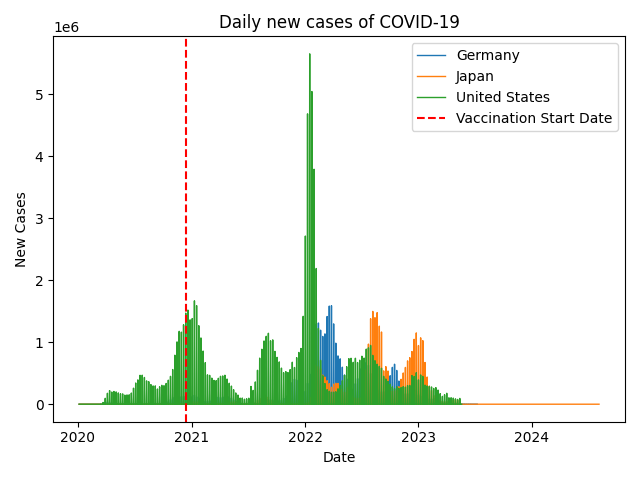
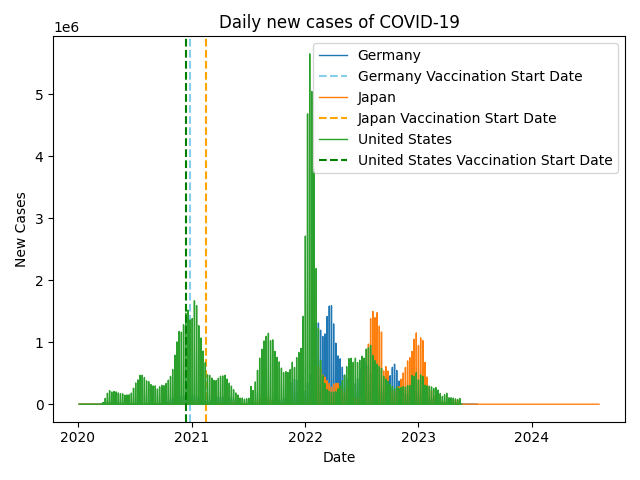
fixed type hints, corrected lines of vaccination start date per country in plots

Changed region(s): [[0.4688, 0.0938, 0.9688, 0.3438], [0.2812, 0.0938, 0.3125, 0.6875], [0.2812, 0.8438, 0.3125, 0.875]]

diff --git a/visualization.py b/visualization.py
@@ -2,16 +2,18 @@ import pandas as pd
 import matplotlib.pyplot as plt
 
 
-def create_plot_daily_new_cases(df: pd.DataFrame):
+def create_plot_daily_new_cases(df: pd.DataFrame) -> None:
     """Create and save a plot (line chart) of daily new COVID-19 cases."""
     plt.figure()
 
-    for country in df["location"].unique():
+    colors = ["skyblue", "orange", "green"]
+
+    for i, country in enumerate(df["location"].unique()):
         country_df = df[df["location"] == country]
         plt.plot(country_df["date"], country_df["new_cases"], label=country, linewidth=1)
 
-    start_date = country_df["vaccination_start_date"].iloc[0]
-    plt.axvline(x=start_date, color="red", linestyle="--", label="Vaccination Start Date")
+        start_date = country_df["vaccination_start_date"].iloc[0]
+        plt.axvline(x=start_date, color=colors[i], linestyle="--", label=f"{country} Vaccination Start Date")
 
     plt.title("Daily new cases of COVID-19")
     plt.xlabel("Date")
@@ -22,11 +24,13 @@ def create_plot_daily_new_cases(df: pd.DataFrame):
     plt.close()
 
 
-def create_plot_weekly_new_cases(df: pd.DataFrame):
+def create_plot_weekly_new_cases(df: pd.DataFrame) -> None:
     """Create and save a plot (line chart) of weekly new COVID-19 cases."""
     plt.figure(figsize=(10, 6))
 
-    for country in df["location"].unique():
+    colors = ["skyblue", "orange", "green"]
+
+    for i, country in enumerate(df["location"].unique()):
         country_df = df[df["location"] == country].copy()
         country_df = country_df.sort_values("date")
 
@@ -34,8 +38,8 @@ def create_plot_weekly_new_cases(df: pd.DataFrame):
 
         plt.plot(country_df["date"], country_df["weekly_cases"], label=country, linewidth=1)
 
-    start_date = country_df["vaccination_start_date"].iloc[0]
-    plt.axvline(x=start_date, color="red", linestyle="--", label="Vaccination Start Date")
+        start_date = country_df["vaccination_start_date"].iloc[0]
+        plt.axvline(x=start_date, color=colors[i], linestyle="--", label=f"{country} Vaccination Start Date")
 
     plt.title("Weekly new cases of COVID-19")
     plt.xlabel("Date")
@@ -46,7 +50,7 @@ def create_plot_weekly_new_cases(df: pd.DataFrame):
     plt.close()
 
 
-def create_plot_avg_new_cases_comparison(avg_table: pd.DataFrame):
+def create_plot_avg_new_cases_comparison(avg_table: pd.DataFrame) -> None:
     """Create and save a plot (bar chart) comparing average daily new cases pre and post vaccination."""
 
     plt.figure(figsize=(8, 6))
@@ -60,7 +64,7 @@ def create_plot_avg_new_cases_comparison(avg_table: pd.DataFrame):
     plt.savefig("visualizations/avg_new_cases_comparison.png")
     plt.close()
 
-def create_plot_avg_new_deaths_comparison(avg_deaths_table: pd.DataFrame):
+def create_plot_avg_new_deaths_comparison(avg_deaths_table: pd.DataFrame) -> None:
     """Create and save a plot (bar chart) comparing average daily new deaths pre and post vaccination."""
 
     plt.figure(figsize=(8, 6))
